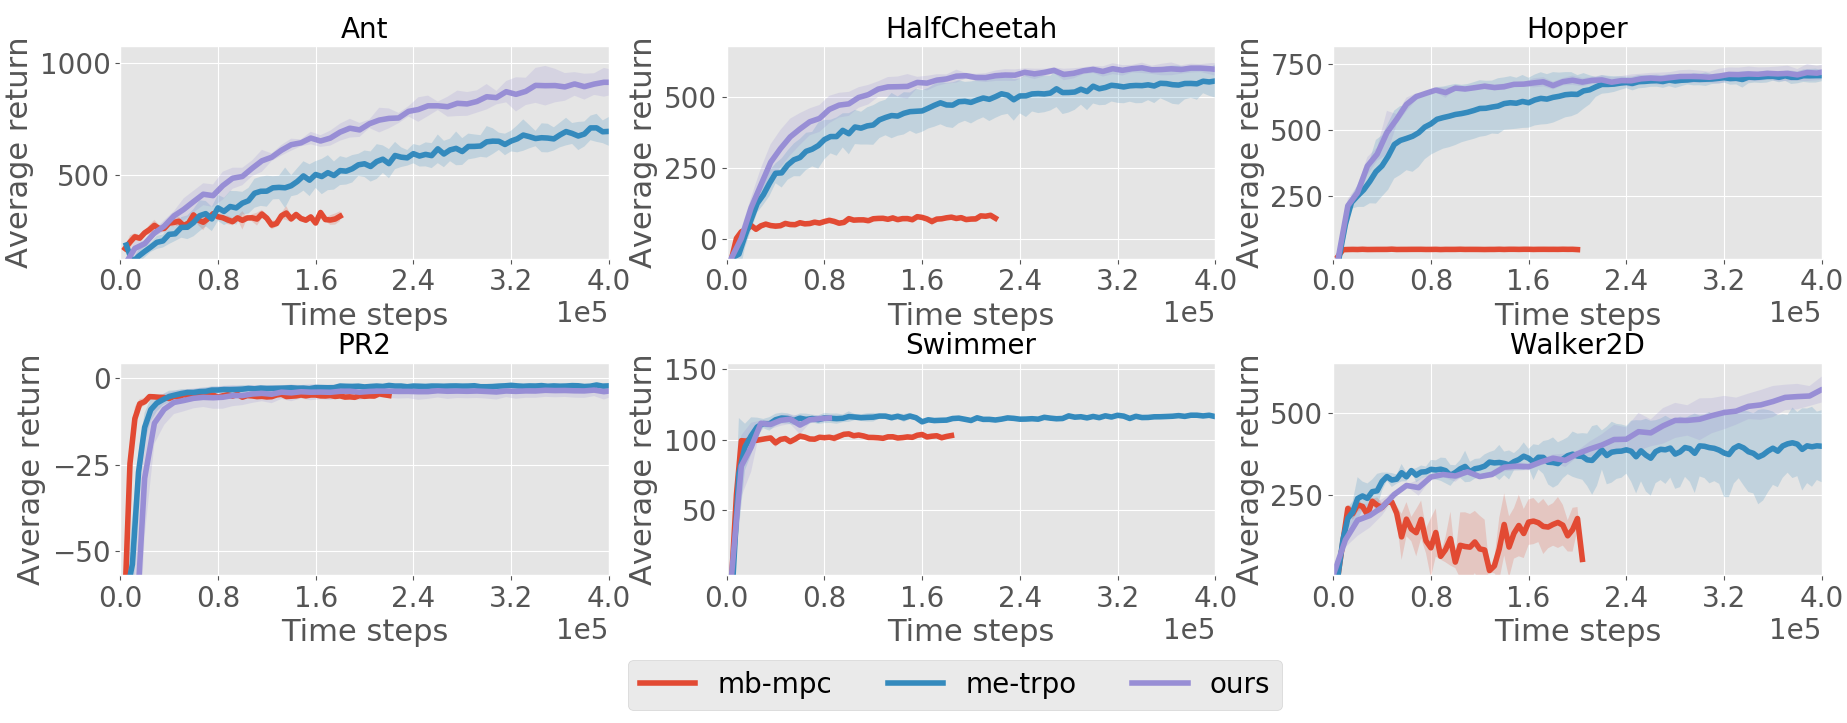
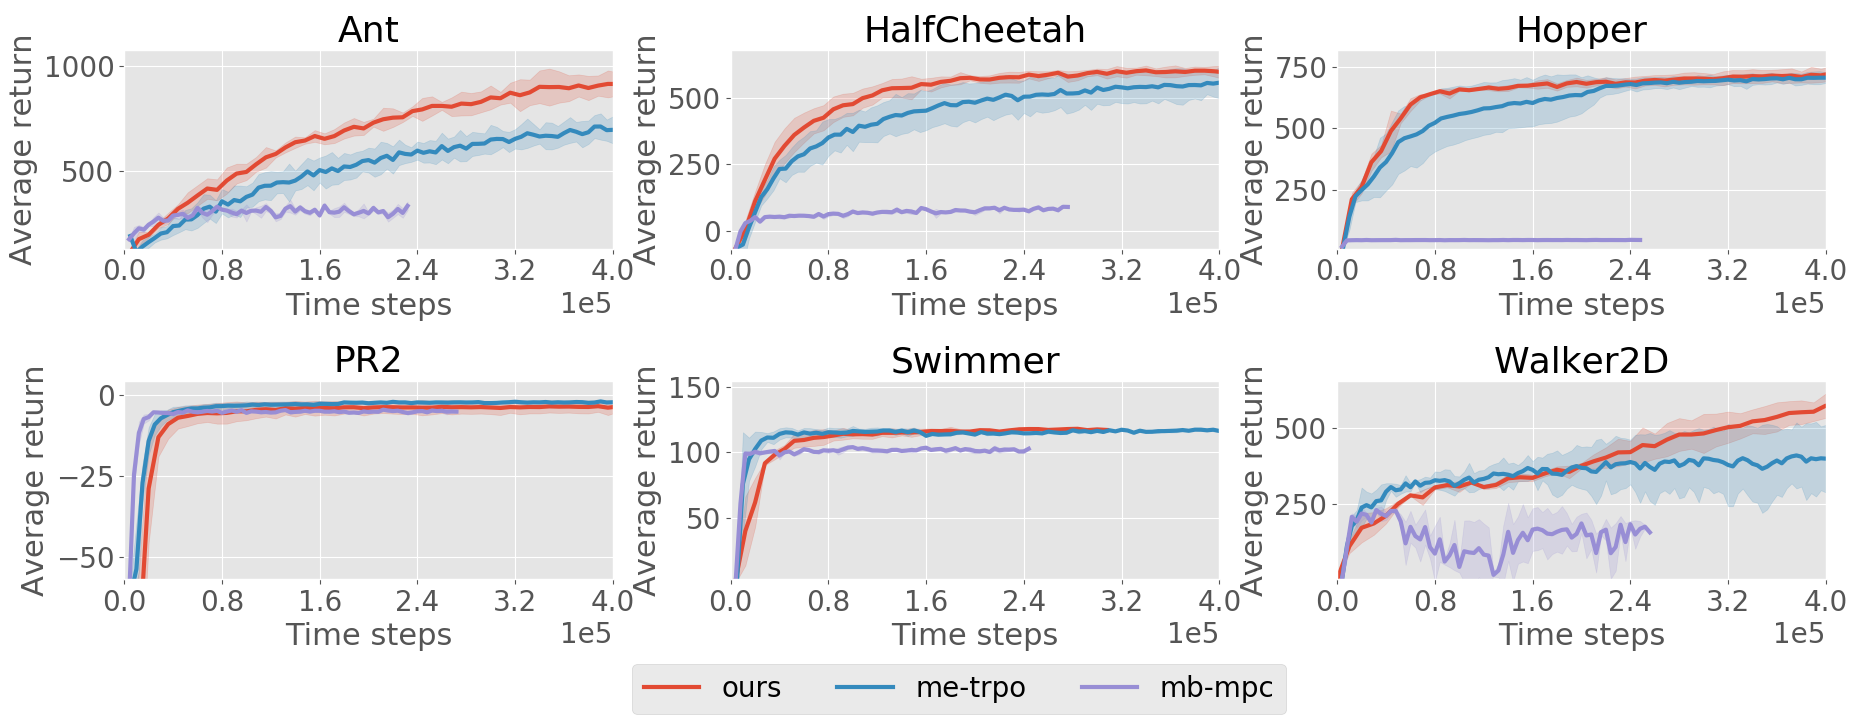
plotting

diff --git a/plots/hyperparam-study-plots.py b/plots/hyperparam-study-plots.py
@@ -6,18 +6,30 @@ from plots.plot_utils import *
 plt.style.use('ggplot')
 #plt.rc('font', family='Times New Roman')
 import matplotlib
-matplotlib.use('TkAgg')
+# matplotlib.use('TkAgg')
 #matplotlib.font_manager._rebuild()
 
-data_path_fast_lr = '/home/jonasrothfuss/Dropbox/Publication_Data/MB-MPG/Experiments/Hyperparam_study/Hyperparam-study-fast-lr'
-data_path_num_models = '/home/jonasrothfuss/Dropbox/Publication_Data/MB-MPG/Experiments/Hyperparam_study/Hyperparam-study-num-models'
-data_path_maml_iter = '/home/jonasrothfuss/Dropbox/Publication_Data/MB-MPG/Experiments/Hyperparam_study/Hyperparam-study-maml-iter'
+data_path_fast_lr = '/home/ignasi/Desktop/hyperparams/hyperparam-study-fast-lr'
+data_path_num_models = '/home/ignasi/Desktop/hyperparams/hyperparam-study-num-models'
+data_path_maml_iter = '/home/ignasi/Desktop/hyperparams/hyperparam-study-maml-iter'
 
 exps_data_fast_lr = core.load_exps_data([data_path_fast_lr], False)
 exps_data_num_models = core.load_exps_data([data_path_num_models], False)
 exps_data_maml_iter = core.load_exps_data([data_path_maml_iter], False)
 
+SMALL_SIZE = 30
+MEDIUM_SIZE = 32
+BIGGER_SIZE = 36
+LINEWIDTH = 4
 
+plt.rc('font', size=SMALL_SIZE)          # controls default text sizes
+plt.rc('axes', titlesize=BIGGER_SIZE)     # fontsize of the axes title
+plt.rc('axes', labelsize=MEDIUM_SIZE)    # fontsize of the x and y labels
+plt.rc('xtick', labelsize=SMALL_SIZE)    # fontsize of the tick labels
+plt.rc('ytick', labelsize=SMALL_SIZE)    # fontsize of the tick labels
+plt.rc('legend', fontsize=SMALL_SIZE)    # legend fontsize
+plt.rc('figure', titlesize=BIGGER_SIZE)  # fontsize of the figure title
+matplotlib.rcParams['lines.linewidth'] = LINEWIDTH
 def plot_from_exps(exps_data_fast_lr,
                    exps_data_num_models,
                    exps_data_maml_iter,
@@ -30,13 +42,13 @@ def plot_from_exps(exps_data_fast_lr,
                    subfigure_titles=None,
                    plot_labels=None,
                    x_label=None,
-                   y_label=None,
-                   fontsize=11):
+                   y_label=None
+                   ):
 
     #exp_data = filter(exp_data, filters=filters)
     #exps_per_plot = group_by(exp_data, group_by_key=split_figures_by)
-    fig, axarr = plt.subplots(1, 3, figsize=(15, 4))
-    fig.tight_layout(pad=3.0, w_pad=4.0, h_pad=3.0, rect=[0, 0, 0.95, 1])
+    fig, axarr = plt.subplots(1, 3, figsize=(30, 8))
+    fig.tight_layout(pad=4., w_pad=1.5, h_pad=3.0, rect=[0, 0, 1, 1])
 
     # x axis formatter
     xfmt = matplotlib.ticker.ScalarFormatter()
@@ -45,8 +57,8 @@ def plot_from_exps(exps_data_fast_lr,
     # inner learning rate
     i = 0
     plots_in_figure_exps = group_by(exps_data_fast_lr, group_by_key='fast_lr')
-    subfigure_title = r'Inner learning rate $\alpha$'
-    axarr[i].set_title(subfigure_title, fontsize=fontsize)
+    subfigure_title = r'Inner Learning Rate $\alpha$'
+    axarr[i].set_title(subfigure_title)
     axarr[i].xaxis.set_major_formatter(xfmt)
     axarr[i].xaxis.set_major_locator(plt.MaxNLocator(5))
 
@@ -59,17 +71,17 @@ def plot_from_exps(exps_data_fast_lr,
         axarr[i].fill_between(x, y_mean + y_std, y_mean - y_std, alpha=0.2)
 
         # axis labels
-        axarr[i].set_xlabel(x_label if x_label else x_key, fontsize=fontsize)
-        axarr[i].set_ylabel(y_label if y_label else y_key, fontsize=fontsize)
+        axarr[i].set_xlabel(x_label if x_label else x_key)
+        axarr[i].set_ylabel(y_label if y_label else y_key)
 
         axarr[i].set_xlim(0, 200000)
-        axarr[i].legend(loc='lower right', ncol=1, bbox_transform = plt.gcf().transFigure)
+        axarr[i].legend(loc='lower right', ncol=2, bbox_transform = plt.gcf().transFigure)
 
     # Number of models
     i = 1
     plots_in_figure_exps = group_by(exps_data_num_models, group_by_key='num_models')
-    subfigure_title = 'Number of models'
-    axarr[i].set_title(subfigure_title, fontsize=fontsize)
+    subfigure_title = 'Number of Models'
+    axarr[i].set_title(subfigure_title)
     axarr[i].xaxis.set_major_formatter(xfmt)
     axarr[i].xaxis.set_major_locator(plt.MaxNLocator(5))
 
@@ -83,18 +95,18 @@ def plot_from_exps(exps_data_fast_lr,
         axarr[i].fill_between(x, y_mean + y_std, y_mean - y_std, alpha=0.2)
 
         # axis labels
-        axarr[i].set_xlabel(x_label if x_label else x_key, fontsize=fontsize)
-        axarr[i].set_ylabel(y_label if y_label else y_key, fontsize=fontsize)
+        axarr[i].set_xlabel(x_label if x_label else x_key)
+        axarr[i].set_ylabel(y_label if y_label else y_key)
 
         axarr[i].set_xlim(0, 200000)
-        axarr[i].legend(loc='lower right', ncol=1, bbox_transform = plt.gcf().transFigure)
+        axarr[i].legend(loc='lower right', ncol=2, bbox_transform = plt.gcf().transFigure)
 
 
     # Number of maml steps per iter
     i = 2
     plots_in_figure_exps = group_by(exps_data_maml_iter, group_by_key='num_maml_steps_per_iter')
-    subfigure_title = 'Meta gradient steps per iteration'
-    axarr[i].set_title(subfigure_title, fontsize=fontsize)
+    subfigure_title = 'Meta Gradient Steps per Iteration'
+    axarr[i].set_title(subfigure_title)
     axarr[i].xaxis.set_major_formatter(xfmt)
     axarr[i].xaxis.set_major_locator(plt.MaxNLocator(5))
 
@@ -108,11 +120,11 @@ def plot_from_exps(exps_data_fast_lr,
         axarr[i].fill_between(x, y_mean + y_std, y_mean - y_std, alpha=0.2)
 
         # axis labels
-        axarr[i].set_xlabel(x_label if x_label else x_key, fontsize=fontsize)
-        axarr[i].set_ylabel(y_label if y_label else y_key, fontsize=fontsize)
+        axarr[i].set_xlabel(x_label if x_label else x_key)
+        axarr[i].set_ylabel(y_label if y_label else y_key)
 
         axarr[i].set_xlim(0, 200000)
-        axarr[i].legend(loc='lower right', ncol=1, bbox_transform=plt.gcf().transFigure)
+        axarr[i].legend(loc='lower right', ncol=2, bbox_transform=plt.gcf().transFigure)
 
     fig.savefig(plot_name + '.png')
     fig.savefig(plot_name + '.pdf')
@@ -127,7 +139,6 @@ plot_from_exps(exps_data_fast_lr,
                subfigure_titles=['HalfCheetah - output_bias_range [0.0, 0.1]',
                                 'HalfCheetah - output_bias_range [0.0, 0.5]',
                                 'HalfCheetah - output_bias_range [0.0, 1.0]'],
-               plot_labels=['ME-MPG', 'ME-TRPO'],
-               x_label='time steps',
-               y_label='average return',
+               x_label='Time steps',
+               y_label='Average return',
                )

diff --git a/plots/bad-model-plots.py b/plots/bad-model-plots.py
@@ -9,8 +9,40 @@ import matplotlib
 matplotlib.use('TkAgg')
 #matplotlib.font_manager._rebuild()
 
-data_path = '/home/jonasrothfuss/Dropbox/Eigene_Dateien/UC_Berkley/2_Code/model_ensemble_meta_learning/data/s3/bad-models'
+data_path = '/home/ignasi/Desktop/robustness'
 exps_data = core.load_exps_data([data_path], False)
+
+
+
+SMALL_SIZE = 30
+MEDIUM_SIZE = 32
+BIGGER_SIZE = 36
+LINEWIDTH = 4
+
+plt.rc('font', size=SMALL_SIZE)          # controls default text sizes
+plt.rc('axes', titlesize=BIGGER_SIZE)     # fontsize of the axes title
+plt.rc('axes', labelsize=MEDIUM_SIZE)    # fontsize of the x and y labels
+plt.rc('xtick', labelsize=SMALL_SIZE)    # fontsize of the tick labels
+plt.rc('ytick', labelsize=SMALL_SIZE)    # fontsize of the tick labels
+plt.rc('legend', fontsize=MEDIUM_SIZE)    # legend fontsize
+plt.rc('figure', titlesize=BIGGER_SIZE)  # fontsize of the figure title
+
+
+
+prop_cycle = plt.rcParams['axes.prop_cycle']
+colors = prop_cycle.by_key()['color']
+COLORS = dict(ours=colors.pop(0))
+
+
+LEGEND_ORDER={'ours':0, 'me-trpo':1, 'mb-mpc':2}
+def sorting_legend(label):
+    return LEGEND_ORDER[label]
+
+
+def get_color(label):
+    if label not in COLORS.keys():
+        COLORS[label] = colors.pop(0)
+    return COLORS[label]
 
 
 def plot_from_exps(exp_data,
@@ -24,12 +56,12 @@ def plot_from_exps(exp_data,
                    plot_labels=None,
                    x_label=None,
                    y_label=None,
-                   fontsize=11):
+                   ):
 
     exp_data = filter(exp_data, filters=filters)
     exps_per_plot = group_by(exp_data, group_by_key=split_figures_by)
-    fig, axarr = plt.subplots(1, len(exps_per_plot.keys()), figsize=(15, 4))
-    fig.tight_layout(pad=3.0, w_pad=4.0, h_pad=3.0, rect=[0, 0, 0.95, 1])
+    fig, axarr = plt.subplots(1, len(exps_per_plot.keys()), figsize=(30, 8))
+    fig.tight_layout(pad=4., w_pad=1.5, h_pad=3.0, rect=[0, 0, 1, 1])
 
     # x axis formatter
     xfmt = matplotlib.ticker.ScalarFormatter()
@@ -39,41 +71,35 @@ def plot_from_exps(exp_data,
     for i, (default_plot_title, plot_exps) in enumerate(sorted(exps_per_plot.items())):
         plots_in_figure_exps = group_by(plot_exps, split_plots_by)
         subfigure_title = subfigure_titles[i] if subfigure_titles else default_plot_title
-        axarr[i].set_title(subfigure_title, fontsize=fontsize)
+        axarr[i].set_title(subfigure_title)
         axarr[i].xaxis.set_major_formatter(xfmt)
         axarr[i].xaxis.set_major_locator(plt.MaxNLocator(5))
 
         # iterate over plots in figure
-        for j, (default_label, exps) in enumerate(sorted(plots_in_figure_exps.items())):
+        for j, default_label in enumerate(sorted(plots_in_figure_exps, key=sorting_legend)):
+            exps = plots_in_figure_exps[default_label]
             x, y_mean, y_std = prepare_data_for_plot(exps, x_key=x_key, y_key=y_key)
 
             label = plot_labels[j] if plot_labels else default_label
-            label = label if i == 0 else "__nolabel__"
-            axarr[i].plot(x, y_mean, label=label)
-            axarr[i].fill_between(x, y_mean + y_std, y_mean - y_std, alpha=0.2)
+            _label = label if i == 0 else "__nolabel__"
+            axarr[i].plot(x, y_mean, label=_label,  linewidth=LINEWIDTH, color=get_color(label))
+            axarr[i].fill_between(x, y_mean + y_std, y_mean - y_std, alpha=0.2, color=get_color(label))
 
             # axis labels
-            axarr[i].set_xlabel(x_label if x_label else x_key, fontsize=fontsize)
-            axarr[i].set_ylabel(y_label if y_label else y_key, fontsize=fontsize)
+            axarr[i].set_xlabel(x_label if x_label else x_key)
+            axarr[i].set_ylabel(y_label if y_label else y_key)
 
-    fig.legend(loc='center right', ncol=1, bbox_transform = plt.gcf().transFigure)
+    fig.legend(loc='lower center', ncol=4, bbox_transform=plt.gcf().transFigure)
     fig.savefig(plot_name + '.png')
-    fig.savefig(plot_name + '.pdf')
-
-
-filter_dict = {'output_bias_range': [0, 0.1]}
-
-exps_data_filtered = filter(exps_data, filter_dict)
 
 
 plot_from_exps(exps_data,
                split_figures_by='output_bias_range',
-               split_plots_by='exp_prefix',
+               split_plots_by='exp_name',
                y_key='EnvTrajs-AverageReturn',
-               subfigure_titles=['output_bias_range [0.0, 0.1]',
-                                'output_bias_range [0.0, 0.5]',
-                                'output_bias_range [0.0, 1.0]'],
-               plot_labels=['ME-MPG', 'ME-TRPO'],
-               x_label='time steps',
-               y_label='average return',
+               subfigure_titles=['Bias Range: (0.0, 0.1)',
+                                'Bias Range: (0.0, 0.5)',
+                                'Bias Range: (0.0, 1.0)'],
+               x_label='Time steps',
+               y_label='Average return',
                )

diff --git a/plots/plot_utils.py b/plots/plot_utils.py
@@ -20,20 +20,42 @@ def filter(exps_data, filters={}):
 def group_by(exp_data, group_by_key=None):
     split_dict = OrderedDict()
     for exp in exp_data:
-        key_str = str(exp['flat_params'][group_by_key])
+        if group_by_key == 'exp_name':
+            exp['flat_params']['exp_name'] = exp['flat_params']['exp_name'].replace('-', '_')
+            key_str = str(exp['flat_params'][group_by_key]).split('_')[2]
+            if key_str == 'train':
+                key_str = 'me-trpo'
+            elif key_str == 'maml':
+                key_str = 'ours'
+        elif group_by_key == 'env.$class':
+            key_str = str(exp['flat_params'][group_by_key]).split('.')[-1]
+            if key_str[-13:] == 'EnvRandParams':
+                key_str = key_str[:-13]
+            elif key_str[-15:] == 'EnvRandomParams':
+                key_str = key_str[:-15] + '2D'
+            else:
+                key_str = key_str[:-3]
+        else:
+            key_str = str(exp['flat_params'][group_by_key])
         if key_str in split_dict.keys():
             split_dict[key_str].append(exp)
         else:
             split_dict[key_str] = [exp]
     return split_dict
 
-def prepare_data_for_plot(exp_data, x_key='n_timesteps', y_key=None):
+def prepare_data_for_plot(exp_data, x_key='n_timesteps', y_key=None, sup_y_key=None, round_x=None):
     x_y_tuples = []
     for exp in exp_data:
-        x_y_tuples.extend(list(zip(exp['progress'][x_key],exp['progress'][y_key])))
+        if sup_y_key is not None and sup_y_key in exp['progress'].keys():
+            x_y_tuples.extend(list(zip(exp['progress'][x_key], exp['progress'][sup_y_key])))
+        else:
+            x_y_tuples.extend(list(zip(exp['progress'][x_key], exp['progress'][y_key])))
     x_y_dict = defaultdict(list)
     for k, v in x_y_tuples:
-        x_y_dict[k].append(v)
+        if round_x is not None:
+            x_y_dict[(k//round_x) * round_x].append(v)
+        else:
+            x_y_dict[k].append(v)
     means, stddevs = [], []
     for key in sorted(x_y_dict.keys()):
         means.append(np.mean(x_y_dict[key]))

diff --git a/plots/comparison_long_horizon.py b/plots/comparison_long_horizon.py
@@ -67,7 +67,7 @@ def plot_from_exps(exp_data,
 
     exp_data = filter(exp_data, filters=filters)
     exps_per_plot = {'Long Horizon HalfCheetah': exp_data}
-    fig, ax = plt.subplots(figsize=(20, 8))
+    fig, ax = plt.subplots(figsize=(10, 8))
     fig.tight_layout(pad=4.0, w_pad=1.5, h_pad=2, rect=[0, 0, 1, 1])
     ax.ticklabel_format(style='sci', axis='x', scilimits=(0, 0))
     # iterate over subfigures
@@ -110,6 +110,7 @@ def plot_from_exps(exp_data,
                 ax.set_xlim(*y_limits)
 
     fig.legend(loc='lower center', ncol=6, bbox_transform=plt.gcf().transFigure)
+
     fig.savefig(plot_name)
 
 
